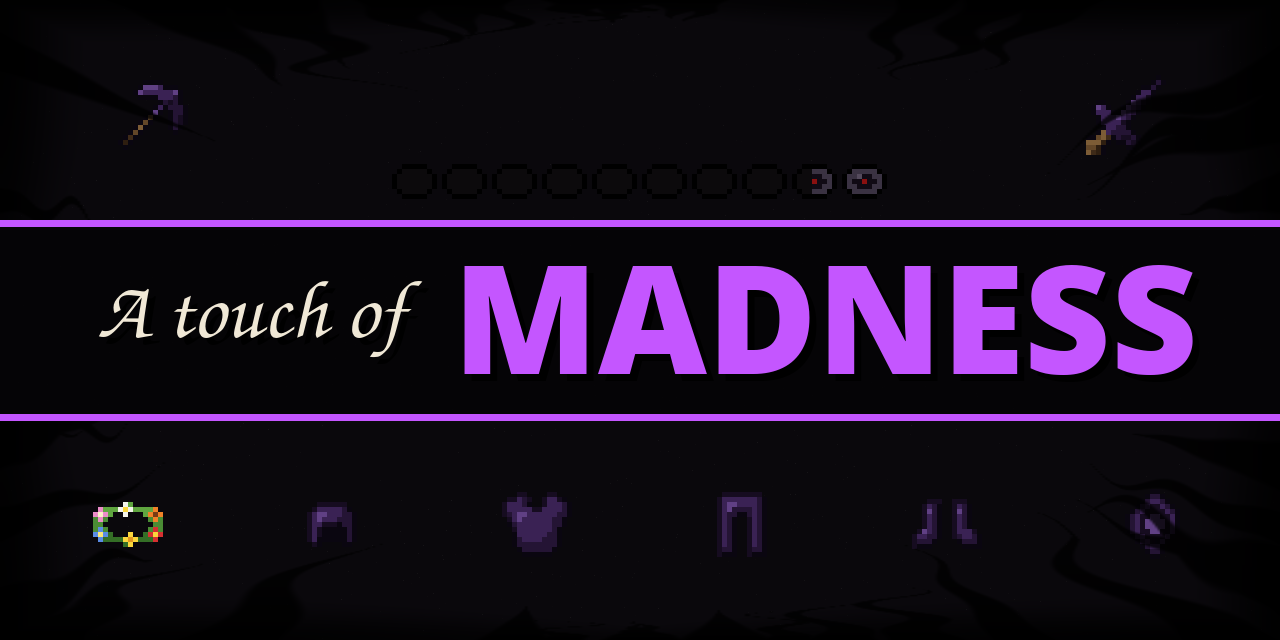
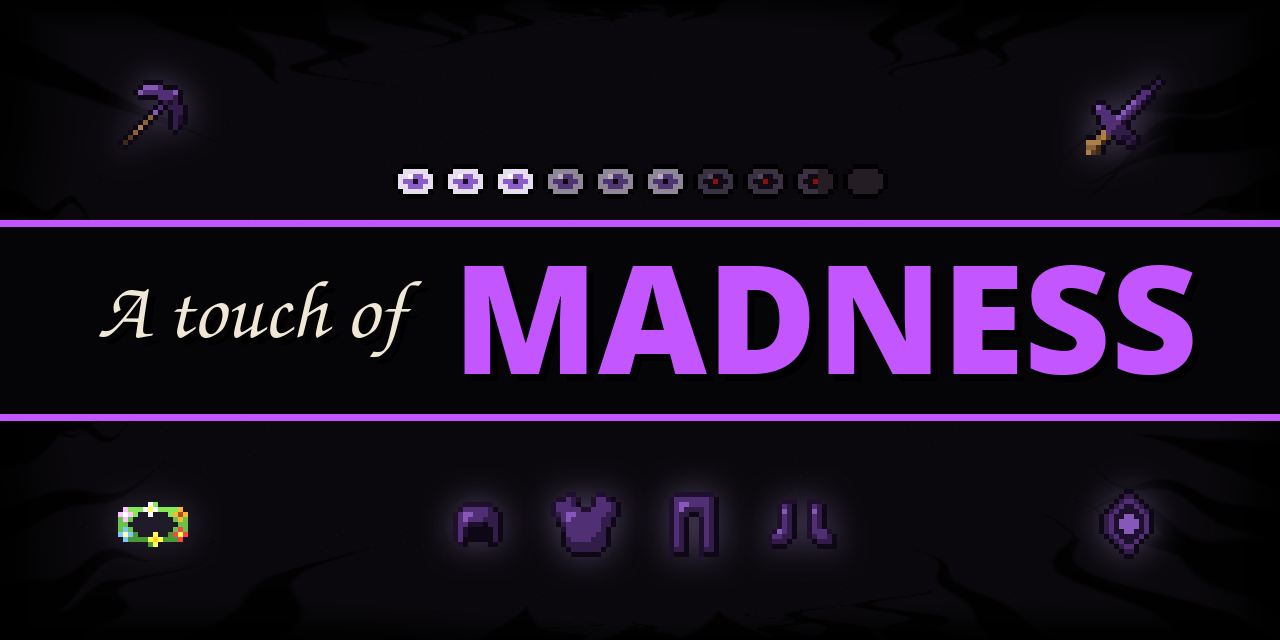
docs: slip the cover's meter from sane to insane, and lift its items
The meter fills from the left through Sane, Uneasy and Insane eyes to a
half and an empty eye, its empty eyes lifted off the night. The items sit
over the Encroachment, brightened with a soft glow, and the Umbra armour
is grouped in the middle of the bottom row.

diff --git a/publish/make-cover.py b/publish/make-cover.py
@@ -1,7 +1,7 @@
 # SPDX-FileCopyrightText: 2026 5thlayer
 # SPDX-License-Identifier: MIT
 
-# Temporary cover and icon, the Sanity meter reading Insane above the title among the
+# Temporary cover and icon, the Sanity meter slipping from Sane to Insane above the title among the
 # Pillar's items, with the Encroachment creeping in from the edges, in the -works suite's style
 # (A Touch of Darkness' make-cover.py), until an in-game screenshot or an artist's art replaces them.
 # They carry Malcolm Riley's art through the Umbra Gear (NOTICE). Run from the repo root with Pillow
@@ -10,19 +10,20 @@ import math
 import os
 import random
 
-from PIL import Image, ImageDraw, ImageFont
+from PIL import Image, ImageDraw, ImageEnhance, ImageFilter, ImageFont
 
 A = 'src/main/resources/assets/atouchofmadness/textures/'
 BG = (10, 8, 12)
 ACCENT = (196, 86, 255)  # violet, the suite's, as A Touch of Darkness' and Wickedness' covers
-# the tools in the top corners, either side of the meter, and below the title the Umbra armour head
-# to foot between the Flower Crown and the Umbra
+# the tools in the top corners, either side of the meter, and below the title the Umbra armour
+# grouped head to foot in the middle, between the Flower Crown and the Umbra
 TOP = ['umbra_pickaxe', 'umbra_sword']
-BOTTOM = ['flower_crown', 'umbra_helmet', 'umbra_chestplate', 'umbra_leggings', 'umbra_boots', 'umbra']
-# the meter as the HUD draws it, its ten eyes all in one Stage's icons: Insane at 15 of 100 Sanity
-EYES = 10
-STAGE = '_insane'
-SANITY = 15
+ARMOUR = ['umbra_helmet', 'umbra_chestplate', 'umbra_leggings', 'umbra_boots']
+GLOW = (200, 170, 255)
+# the meter's ten places, left to right, filled from the left as Sanity slips through the Stages:
+# Sane, then Uneasy, then Insane down to a half eye, and an empty eye at the end; each place's
+# Stage, and how full it is
+EYES = [('', 2)] * 3 + [('_uneasy', 2)] * 3 + [('_insane', 2)] * 2 + [('_insane', 1), ('_insane', 0)]
 
 
 def sprite(path, px):
@@ -47,31 +48,43 @@ def field(W, H, px, seed, top):
         v = rng.randrange(10, 22)
         x, y = rng.randrange(W), rng.randrange(H)
         d.point((x, y), fill=(v + 2, v, v + 3))
-    slots = [((0.12, top), TOP[0]), ((0.88, top), TOP[1])]
-    slots += [((0.1 + i * 0.16, 0.82), name) for i, name in enumerate(BOTTOM)]
-    for (fx, fy), name in slots:
+    img.alpha_composite(encroach(W, H))
+    # the items over the Encroachment, so it doesn't sink them
+    slots = [(0.12, top, TOP[0]), (0.88, top, TOP[1]), (0.12, 0.82, 'flower_crown'), (0.88, 0.82, 'umbra')]
+    slots += [(0.5 + (i - 1.5) * px * 1.35 / W, 0.82, name) for i, name in enumerate(ARMOUR)]
+    for fx, fy, name in slots:
         # upright and on the slot's own column and row, so the items line up across, each centred by
         # its drawn pixels rather than its tile, since each sprite sits differently in it
-        cx, cy = int(fx * W), int(fy * H)
         s = sprite(f'item/{name}', px)
         s = s.crop(s.getchannel('A').getbbox())
-        img.alpha_composite(s, (cx - s.width // 2, cy - s.height // 2))
-    img.alpha_composite(encroach(W, H))
+        item(img, ImageEnhance.Brightness(s).enhance(1.4), int(fx * W), int(fy * H), px)
     return img
 
 
+def item(img, s, cx, cy, px):
+    # an item lifted off the night by a very soft glow of its own shape
+    r = px // 5
+    halo = Image.new('RGBA', (s.width + 4 * r, s.height + 4 * r), GLOW + (0,))
+    a = Image.new('L', halo.size, 0)
+    a.paste(s.getchannel('A').point(lambda v: int(v * 0.35)), (2 * r, 2 * r))
+    halo.putalpha(a.filter(ImageFilter.GaussianBlur(r)))
+    img.alpha_composite(halo, (cx - halo.width // 2, cy - halo.height // 2))
+    img.alpha_composite(s, (cx - s.width // 2, cy - s.height // 2))
+
+
 def meter(img, cx, bottom, eye):
-    # the meter's row of eyes, each eye px wide with a pixel's gap, standing on the band's top edge; as
-    # the HUD, it fills from the right, each place empty first, then full or half over it
+    # the meter's row of eyes, each eye px wide with a pixel's gap, standing on the band's top edge,
+    # each place empty first, then full or half over it; the half eye turned to fill from the left as
+    # the row does, and the empty eyes lifted off the night, which they'd otherwise vanish into
     u = eye // 9
-    w = EYES * 10 * u - u
-    halves = round(SANITY / 100 * EYES * 2)
-    for place in range(EYES):
-        x = cx + w // 2 - u * 9 - place * 10 * u
-        img.alpha_composite(sprite(f'gui/sprites/hud/sanity_empty{STAGE}', 9 * u), (x, bottom - 9 * u))
-        fill = 'full' if halves >= 2 * place + 2 else 'half' if halves == 2 * place + 1 else None
+    w = len(EYES) * 10 * u - u
+    for place, (stage, fill) in enumerate(EYES):
+        at = (cx - w // 2 + place * 10 * u, bottom - 9 * u)
+        empty = sprite(f'gui/sprites/hud/sanity_empty{stage}', 9 * u)
+        img.alpha_composite(ImageEnhance.Brightness(empty).enhance(3), at)
         if fill:
-            img.alpha_composite(sprite(f'gui/sprites/hud/sanity_{fill}{STAGE}', 9 * u), (x, bottom - 9 * u))
+            s = sprite(f'gui/sprites/hud/sanity_{"full" if fill == 2 else "half"}{stage}', 9 * u)
+            img.alpha_composite(s if fill == 2 else s.transpose(Image.FLIP_LEFT_RIGHT), at)
 
 
 def font(names, size):
